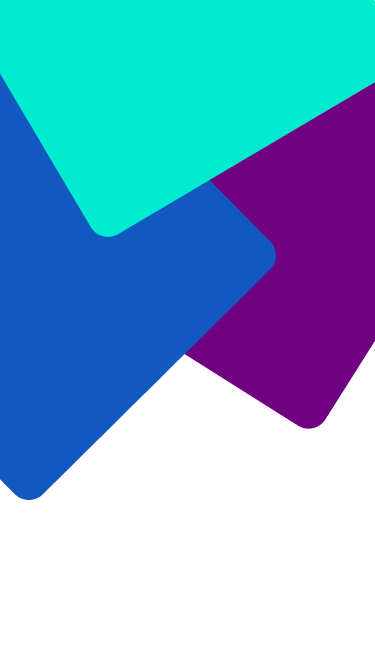
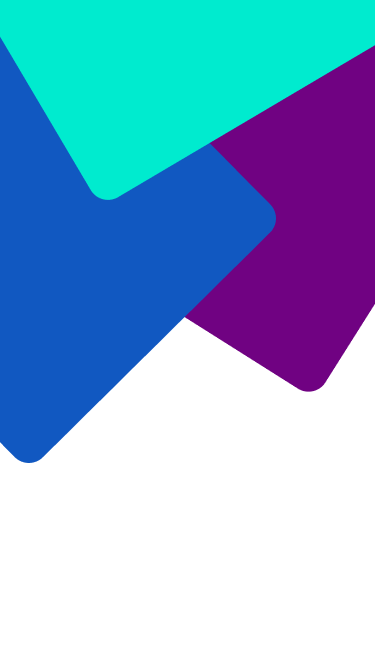
#css home #titulo home

Changed region(s): [[0.0, 0.06, 1.0, 0.7496]]

diff --git a/Front/src/app/home/home.page.html b/Front/src/app/home/home.page.html
@@ -1,10 +1,10 @@
-<ion-header>
-  <ion-toolbar>
-    <ion-title>Início</ion-title>
-  </ion-toolbar>
+<ion-header class="toolbar">
+
+    <ion-title>DIScreve UFRJ</ion-title>
+
 </ion-header>
 
-<ion-content>
+<ion-content class="background">
 
   <app-post *ngFor="let post of posts" [title]="post.title" [author]="post.author" [text]="post.text"></app-post>
 

diff --git a/Front/src/app/home/home.page.scss b/Front/src/app/home/home.page.scss
@@ -1,0 +1,12 @@
+.background{
+    --background: url('../../assets/fundo-home.png');
+    background-repeat: no-repeat;
+    background-repeat: no-repeat;
+    background-position: center;
+    background-size: cover;
+}
+
+.toolbar{
+    background-color: #00EBCF;
+    padding: 3vh;
+}
